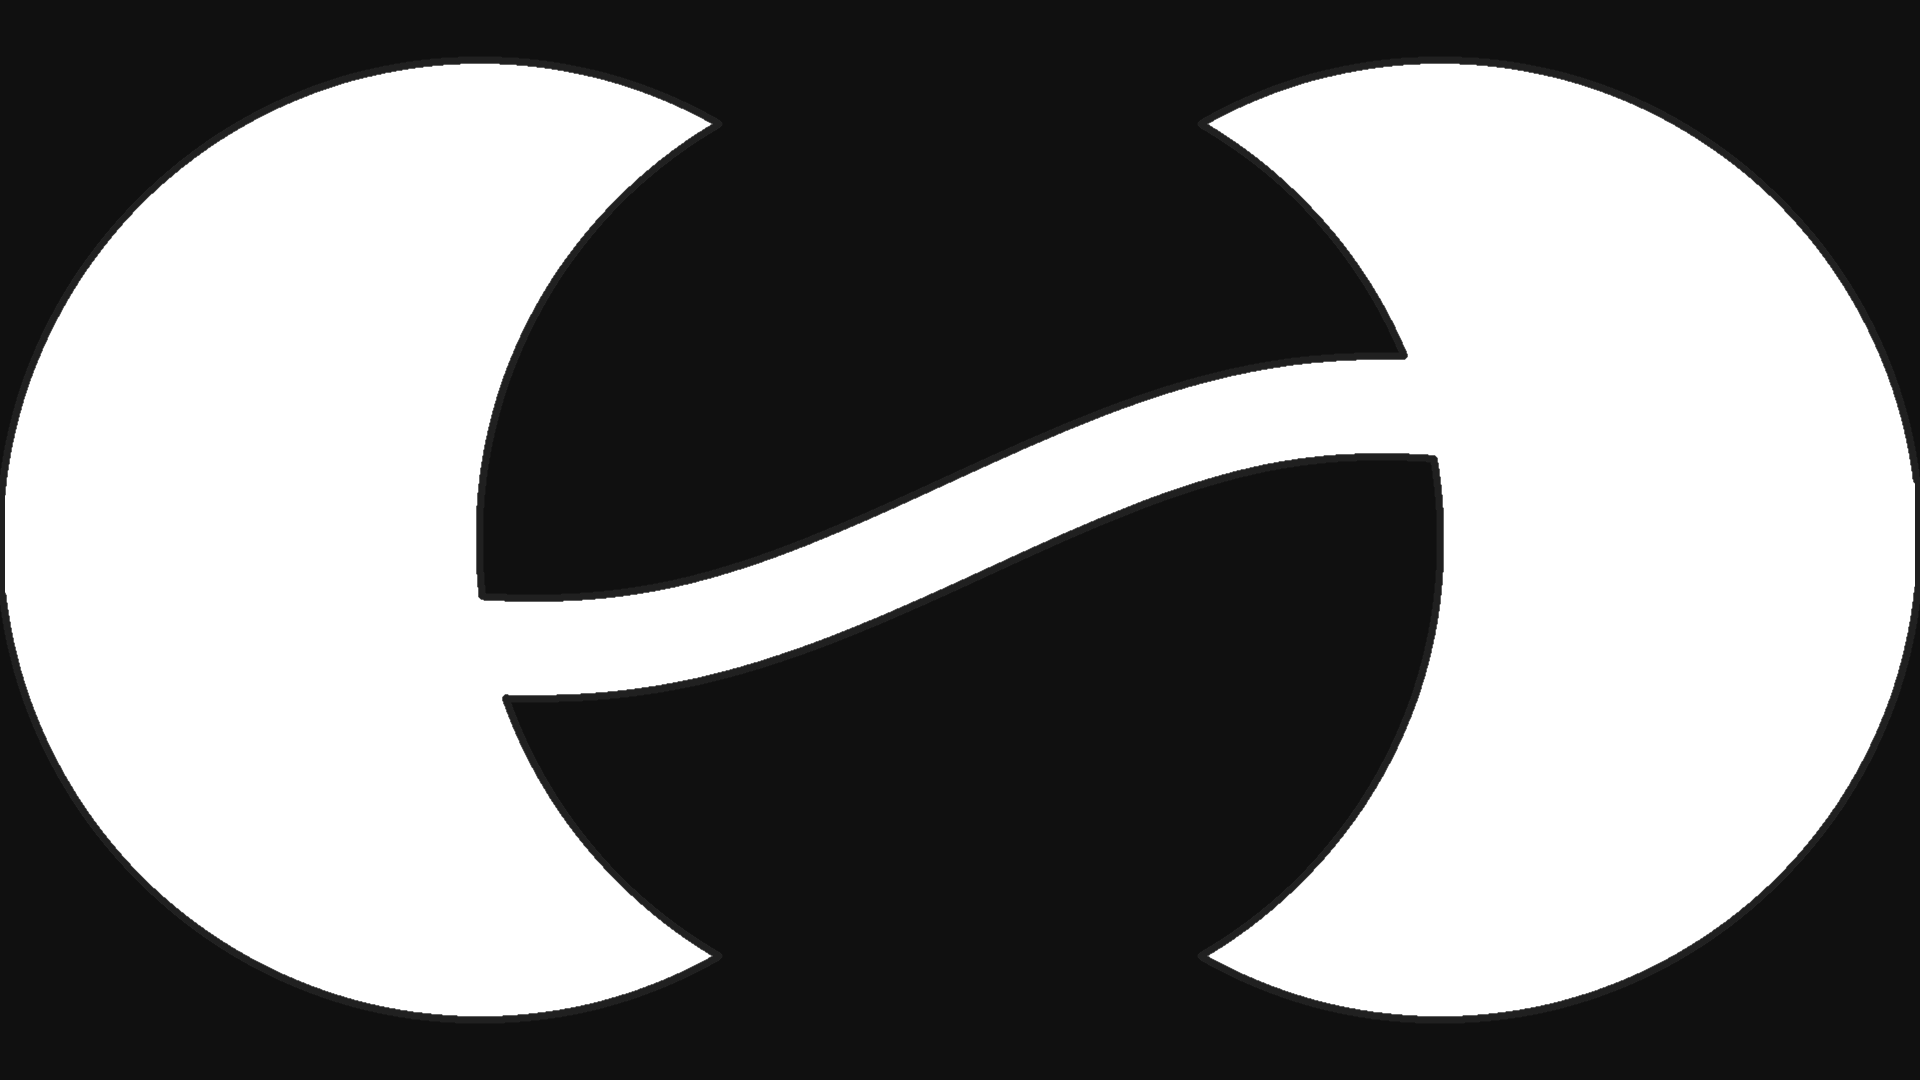
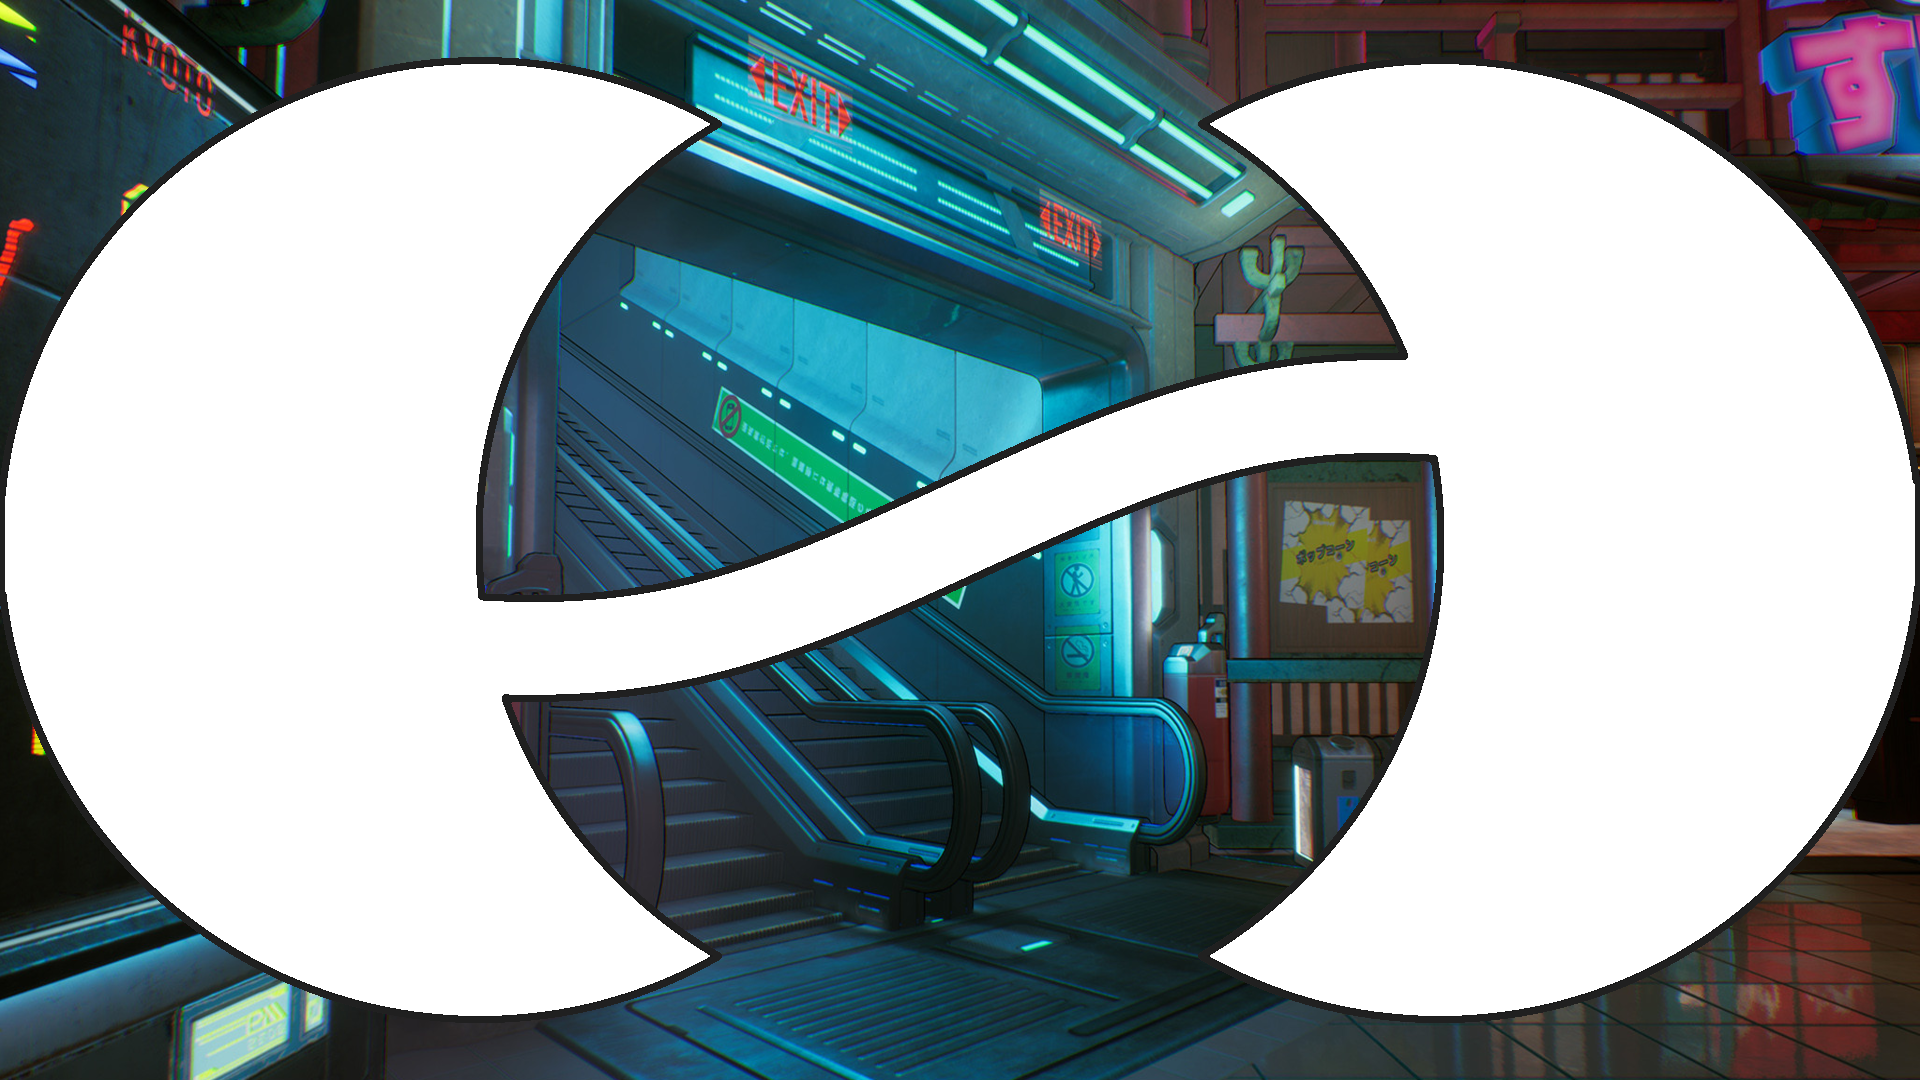
added background image

diff --git a/css/style.css b/css/style.css
@@ -11,8 +11,9 @@ body{
 	margin: 0;
 	width: 100vw;
 	height: 100vh;
-	background: #151515;
-	background-size: 100vw;
+	background: url('../art/bg2.png'), #151515;
+	background-size: 100%;
+	background-position: 10%;
 }
 
 #discord{
@@ -125,6 +126,7 @@ body{
 
 
 #progress{
+	opacity: 0.8;
 	transition: 1s;
 	width: 0%;
 	height: 99.5vh;
@@ -453,17 +455,23 @@ button{
 }
 
 
-@media (max-width: 1080px){
+@media (max-width: 1200px){
 	#progressBar{
 			background: rgba(0, 0, 0, 0);
-		}
+	}
+
+	body{
+		background-size: 158vw;
+		background-position: 50%;
+	}
 }
 
 
 @media (min-width : 501px) and (max-width: 768px){
 
 	body{
-		background-size: 220vw;
+		background-size: 250vw;
+		background-position: 50%;
 	}
 
 	#showans{
@@ -494,7 +502,8 @@ button{
 @media (max-width: 500px){
 
 	body{
-		background-size: 260vw;
+		background-size: 270vw;
+		background-position: 45%;
 	}
 
 	h1{
